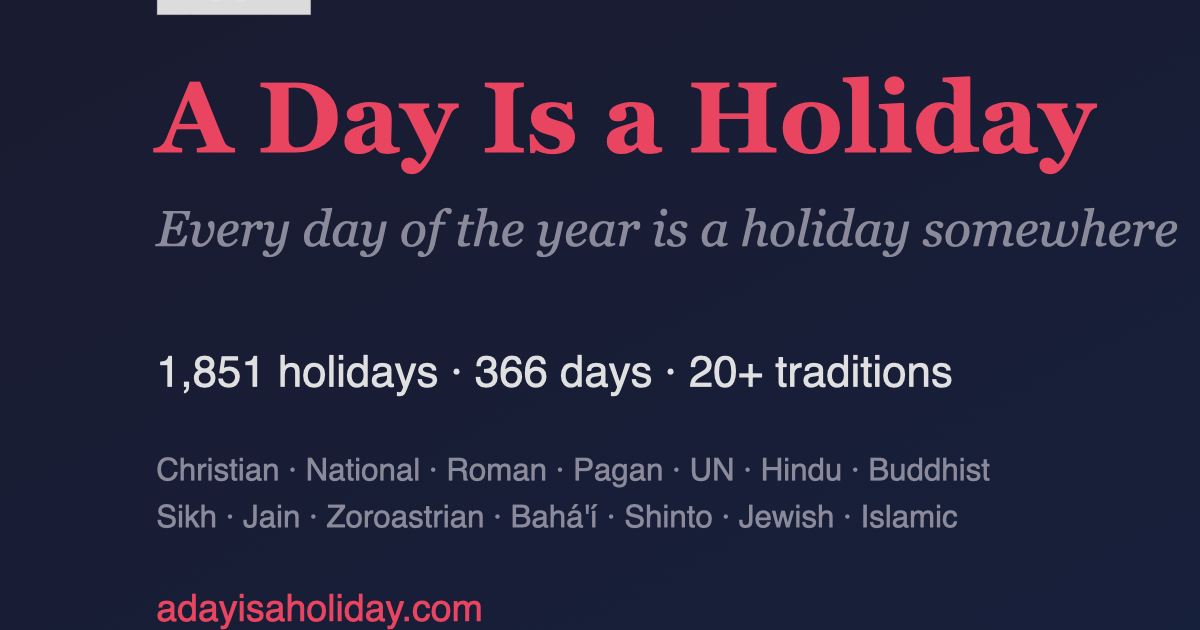
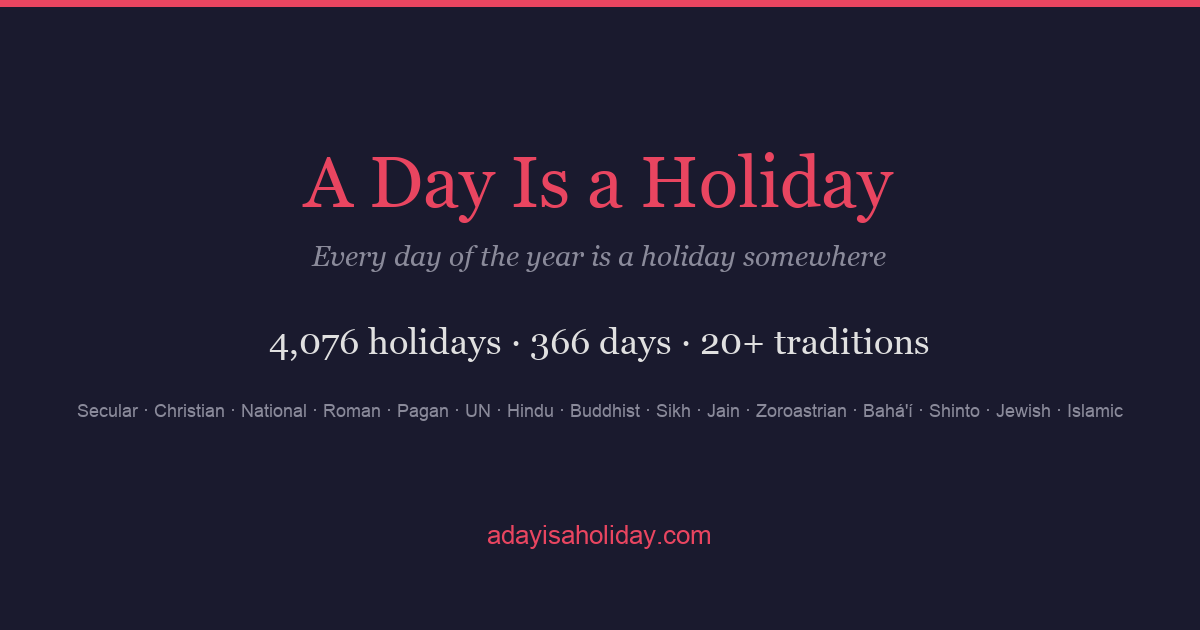
Update OG share card to 4,076 holidays.
Add a generator script so the card stays in sync with holidays.json.

diff --git a/scripts/generate_og_card.py b/scripts/generate_og_card.py
@@ -1,0 +1,90 @@
+#!/usr/bin/env python3
+"""Generate docs/og-card.png (1200x630) from current holidays.json counts."""
+
+from __future__ import annotations
+
+import json
+from pathlib import Path
+
+from PIL import Image, ImageDraw, ImageFont
+
+ROOT = Path(__file__).resolve().parents[1]
+HOLIDAYS_PATH = ROOT / "docs" / "holidays.json"
+OUT_PATH = ROOT / "docs" / "og-card.png"
+
+W, H = 1200, 630
+BG = (26, 26, 46)  # --bg
+ACCENT = (233, 69, 96)  # --accent
+FG = (224, 224, 224)
+MUTED = (138, 138, 154)
+
+GEORGIA = "/System/Library/Fonts/Supplemental/Georgia.ttf"
+GEORGIA_ITALIC = "/System/Library/Fonts/Supplemental/Georgia Italic.ttf"
+ARIAL = "/System/Library/Fonts/Supplemental/Arial.ttf"
+
+TRADITIONS = (
+    "Secular · Christian · National · Roman · Pagan · UN · "
+    "Hindu · Buddhist · Sikh · Jain · Zoroastrian · Bahá'í · "
+    "Shinto · Jewish · Islamic"
+)
+
+
+def font(path: str, size: int) -> ImageFont.FreeTypeFont:
+    return ImageFont.truetype(path, size)
+
+
+def center_text(
+    draw: ImageDraw.ImageDraw,
+    y: int,
+    text: str,
+    fnt: ImageFont.ImageFont,
+    fill: tuple[int, int, int],
+) -> int:
+    bbox = draw.textbbox((0, 0), text, font=fnt)
+    tw = bbox[2] - bbox[0]
+    th = bbox[3] - bbox[1]
+    x = (W - tw) // 2
+    draw.text((x, y), text, font=fnt, fill=fill)
+    return th
+
+
+def main() -> None:
+    with HOLIDAYS_PATH.open(encoding="utf-8") as f:
+        holidays = json.load(f)
+    count = f"{len(holidays):,}"
+
+    img = Image.new("RGBA", (W, H), BG + (255,))
+    draw = ImageDraw.Draw(img)
+
+    # Subtle top accent bar
+    draw.rectangle([0, 0, W, 6], fill=ACCENT)
+
+    title_f = font(GEORGIA, 72)
+    tag_f = font(GEORGIA_ITALIC, 28)
+    stats_f = font(GEORGIA, 36)
+    trad_f = font(ARIAL, 18)
+    url_f = font(ARIAL, 26)
+
+    y = 140
+    center_text(draw, y, "A Day Is a Holiday", title_f, ACCENT)
+    y = 240
+    center_text(draw, y, "Every day of the year is a holiday somewhere", tag_f, MUTED)
+    y = 320
+    center_text(
+        draw,
+        y,
+        f"{count} holidays · 366 days · 20+ traditions",
+        stats_f,
+        FG,
+    )
+    y = 400
+    center_text(draw, y, TRADITIONS, trad_f, MUTED)
+    y = 520
+    center_text(draw, y, "adayisaholiday.com", url_f, ACCENT)
+
+    img.save(OUT_PATH, "PNG", optimize=True)
+    print(f"Wrote {OUT_PATH} ({count} holidays)")
+
+
+if __name__ == "__main__":
+    main()